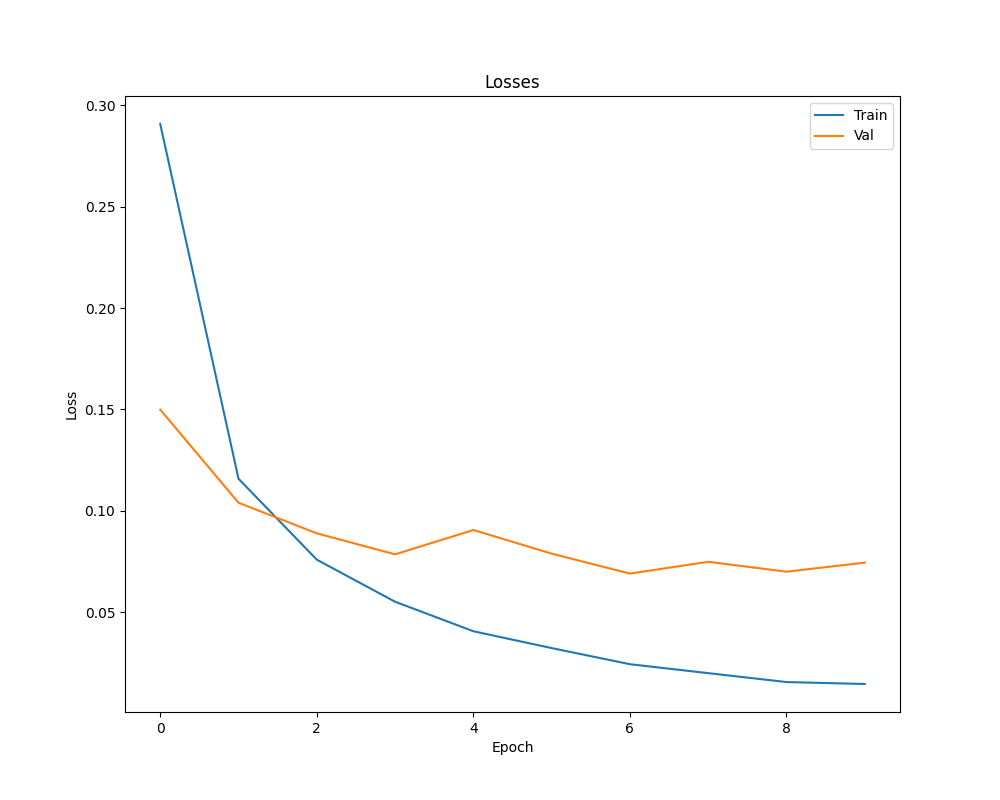
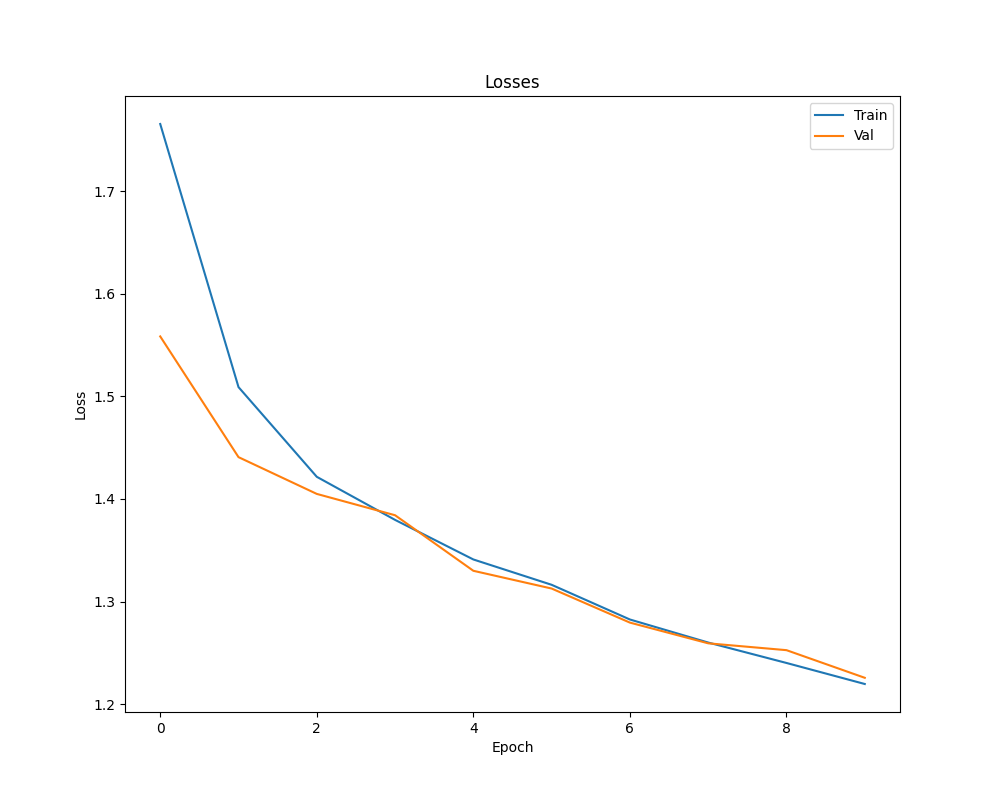
cnn_cifar

diff --git a/nets/cnn_cifar.py b/nets/cnn_cifar.py
@@ -1,10 +1,8 @@
 ## Imports
 import torch
-from torchvision.datasets import MNIST
 from torchvision import transforms
-from torch.utils.data import random_split, DataLoader
+from torch.utils.data import random_split, DataLoader, Dataset
 import torch.nn as nn
-import torch.nn.functional as F
 import torch.optim as optim
 import matplotlib.pyplot as plt
 import random
@@ -14,9 +12,9 @@ from torch.utils.tensorboard import SummaryWriter
 ## Setup
 SEED = 42
 BATCH_SIZE = 128
-IMAGE_HEIGHT = 28
-IMAGE_WIDTH = 28
-IMAGE_CHANNELS = 1
+IMAGE_HEIGHT = 32
+IMAGE_WIDTH = 32
+IMAGE_CHANNELS = 3
 NUM_CLASSES = 10
 NUM_EPOCHS = 10
 DEVICE = "cuda:0"
@@ -29,37 +27,65 @@ def set_seed(seed):
 set_seed(SEED)
 
 ## Data
+def unpickle(file):
+    import pickle
+    with open(file, 'rb') as fo:
+        dict = pickle.load(fo, encoding='bytes')
+    return dict
+class CIFAR_Dataset(Dataset):
+    def __init__(self,path,transform,num_splits=1):
+        batches = [unpickle(f"{path}/data_batch_{i}") for i in range(1,num_splits+1)]
+        x = [batches[i][b'data'] for i in range(0,len(batches))]
+        y = [batches[i][b'labels'] for i in range(0,len(batches))]
+        self.x = np.vstack(np.asarray(x))
+        self.x = self.x.reshape(-1,IMAGE_CHANNELS,IMAGE_WIDTH,IMAGE_HEIGHT)
+        self.x = np.transpose(self.x,(0,2,3,1))
+        self.y = np.hstack(np.asarray(y))
+        self.transform = transform
+    def __len__(self): return self.x.shape[0]
+    def __getitem__(self, idx):
+        img = self.x[idx]
+        label = self.y[idx]
+        if self.transform: img = self.transform(img)
+        return img,label
 tfm = transforms.Compose([transforms.ToTensor()])
-train_full_data = MNIST(root="data/MNIST",train=True,transform=tfm,download=True)
+train_full_data = CIFAR_Dataset(path="data/cifar-10-batches-py/train",transform=tfm,num_splits=5)
+test_data = CIFAR_Dataset(path="data/cifar-10-batches-py/test",transform=tfm,num_splits=1)
 train,val = random_split(train_full_data,[0.8,0.2],generator=torch.Generator().manual_seed(SEED))
 train_loader = DataLoader(train,batch_size=BATCH_SIZE,shuffle=True,pin_memory=True,num_workers=4)
 val_loader = DataLoader(val,batch_size=BATCH_SIZE,shuffle=False,pin_memory=True,num_workers=4)
-test_data = MNIST(root="data/MNIST",train=False,transform=tfm,download=True)
 test_loader = DataLoader(test_data,batch_size=BATCH_SIZE,shuffle=False,pin_memory=True,num_workers=4)
 
 ## Model
 class CNN(nn.Module):
     def __init__(self,image_channels):
         super().__init__()
-        self.conv_net = nn.Sequential(
-            nn.Conv2d(image_channels,image_channels*128,kernel_size=3,stride=3,padding=1),
+        self.conv_net_one = nn.Sequential(
+            nn.Conv2d(image_channels,image_channels*128,kernel_size=3,stride=3,padding=2),# 384 * 12 * 12
+            nn.BatchNorm2d(image_channels*128),
             nn.ReLU(),
             nn.Dropout(0.2),
-            nn.AvgPool2d(kernel_size=3,stride=3) # 128 * 3 * 3
+            nn.AvgPool2d(kernel_size=2,stride=1),  # 384 * 11 * 11
         )
-        self.linear_net = nn.Linear(128*3*3,NUM_CLASSES)
+        self.conv_net_two = nn.Sequential(
+            nn.Conv2d(image_channels*128,image_channels*128,kernel_size=3,stride=1,padding=1), # 384 * 11 * 11
+            nn.BatchNorm2d(image_channels*128),
+            nn.ReLU(),
+        )
+        self.linear_net = nn.Linear(384*11*11,NUM_CLASSES)
     def forward(self,x):
-        x =  self.conv_net(x)
-        x = x.view(x.size(0),-1)
-        x = self.linear_net(x)
-        return x
+        x =  self.conv_net_one(x)
+        y = torch.add(x,self.conv_net_two(x))
+        z = y.view(y.size(0),-1)
+        z = self.linear_net(z)
+        return z
     
 ## Training
 model = CNN(IMAGE_CHANNELS).to(device=DEVICE)
 optimizer = optim.Adam(model.parameters(),lr=LR)
 criterion = nn.CrossEntropyLoss()
 train_losses,val_losses = [],[]
-writer = SummaryWriter("runs/mnist_cnn")
+writer = SummaryWriter("runs/mnist_cifar")
 for ep in range(NUM_EPOCHS):
     running_loss, total_size, val_loss,val_acc, val_size = 0,0,0,0,0
     model.train()
@@ -92,6 +118,7 @@ for ep in range(NUM_EPOCHS):
     val_losses.append(val_loss/val_size)
 writer.close()
 
+## Plotting
 plt.figure(figsize=(10,8))
 plt.title("Losses")
 plt.xlabel("Epoch")
@@ -99,8 +126,9 @@ plt.ylabel("Loss")
 plt.plot(list(range(len(train_losses))),train_losses,label="Train")
 plt.plot(list(range(len(val_losses))),val_losses,label="Val")
 plt.legend()
-plt.savefig("results/plots/ffn_losses.png")
+plt.savefig("results/plots/cnn_cifar_losses.png")
 
+## Inference
 test_acc, total_size = 0, 0
 model.eval()
 with torch.no_grad():
